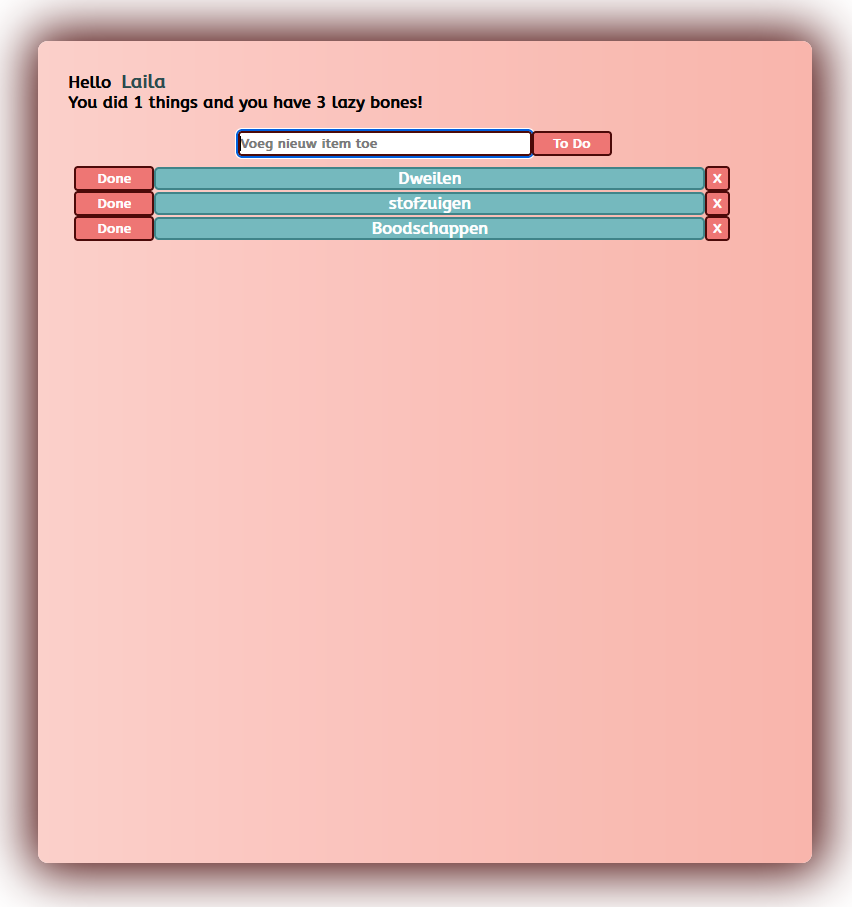
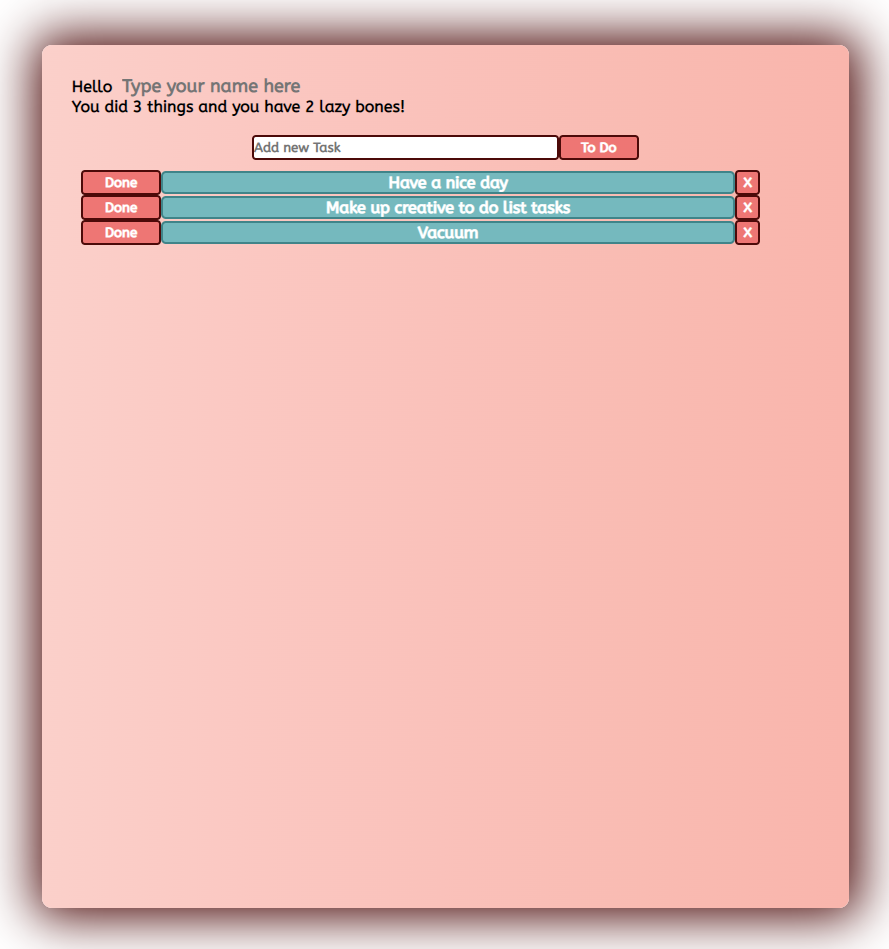
uiterlijke aanpassingen

Changed region(s): [[0.0305, 0.0617, 0.9765, 0.957]]

diff --git a/index.html b/index.html
@@ -13,11 +13,11 @@
 <body>
     <section id="rapper">
         <section class="greetAndCounter">
-            <label for="name">Hello</label><input name="name" type="tekst" id="userName" placeholder="type your name here"><br>
+            <label for="name">Hello</label><input name="name" type="tekst" id="userName" placeholder="Type your name here"><br>
             <span id="actTracker">You did 0 things and you have 0 lazy bones!</span>
         </section>
     <div id="inputWrapper">
-        <input type="text" id="input" placeholder="Voeg nieuw item toe">
+        <input type="text" id="input" placeholder="Add new Task">
         <button id="btn-input" class="btnStyle">To Do</button>
     </div>
     <div>

diff --git a/main.js b/main.js
@@ -20,7 +20,7 @@ window.addEventListener('load', ()=>{
 
     //als de pagina geladen is print de todo's, activity tracker en naam
     printToDo(toDoItems);
-    actTtracker.textContent = `You did ${score} things and you have ${lazyBones} lazy bones!`;
+    actTtracker.innerHTML = `You did <span class="grey-text">${score}</span> things and you have <span class="grey-text">${lazyBones}</span> lazy bones!`;
     userNameInput.value = JSON.parse(localStorage.getItem('username'));
     //eventlistener op username invoer
     userNameInput.addEventListener('blur', (event)=>{

diff --git a/main.css b/main.css
@@ -82,3 +82,6 @@ body{
     color: #2a4b4e;
     margin-left: 10px
 }
+.grey-text{
+    color: #2a4b4e;
+}
